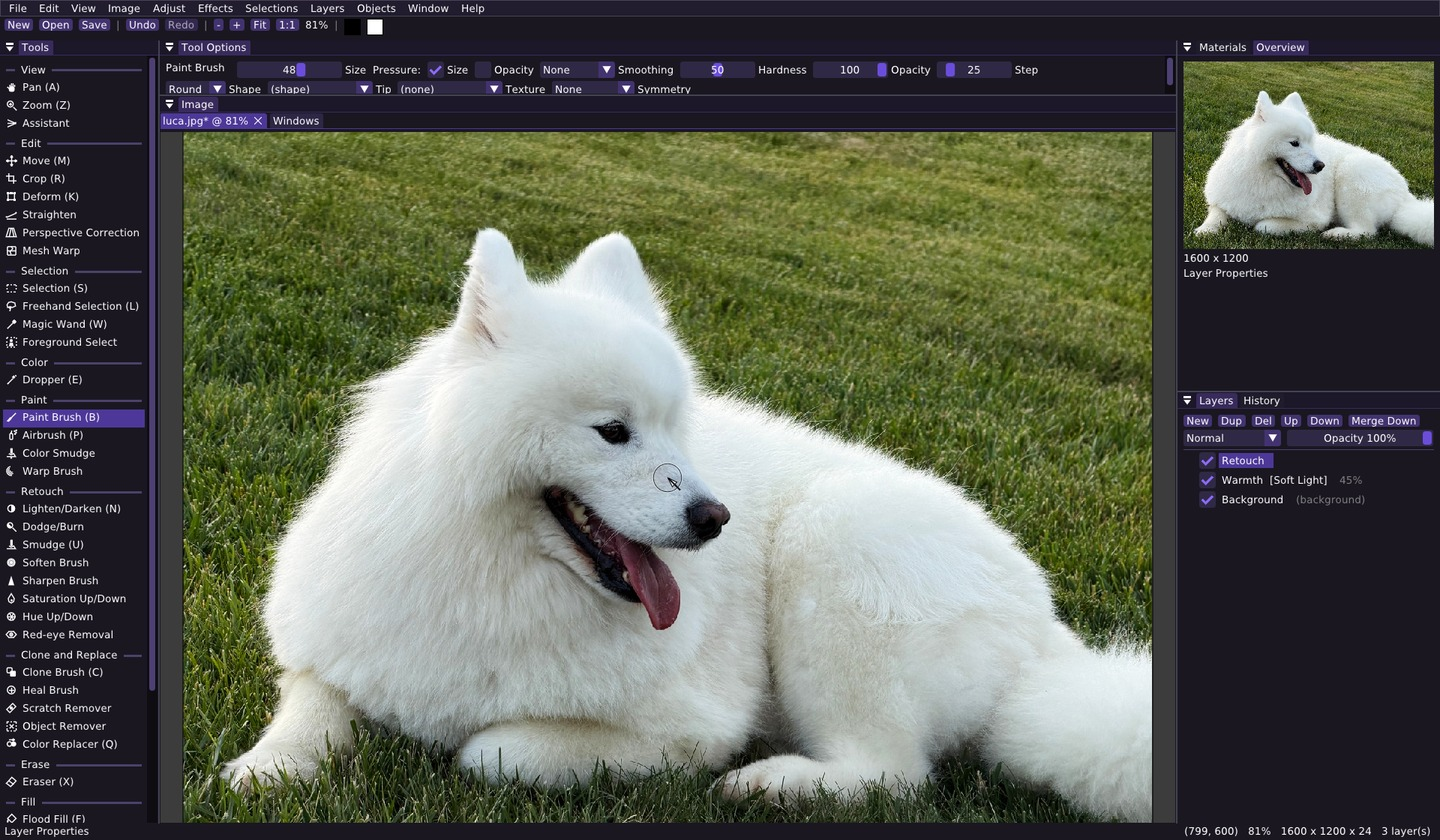
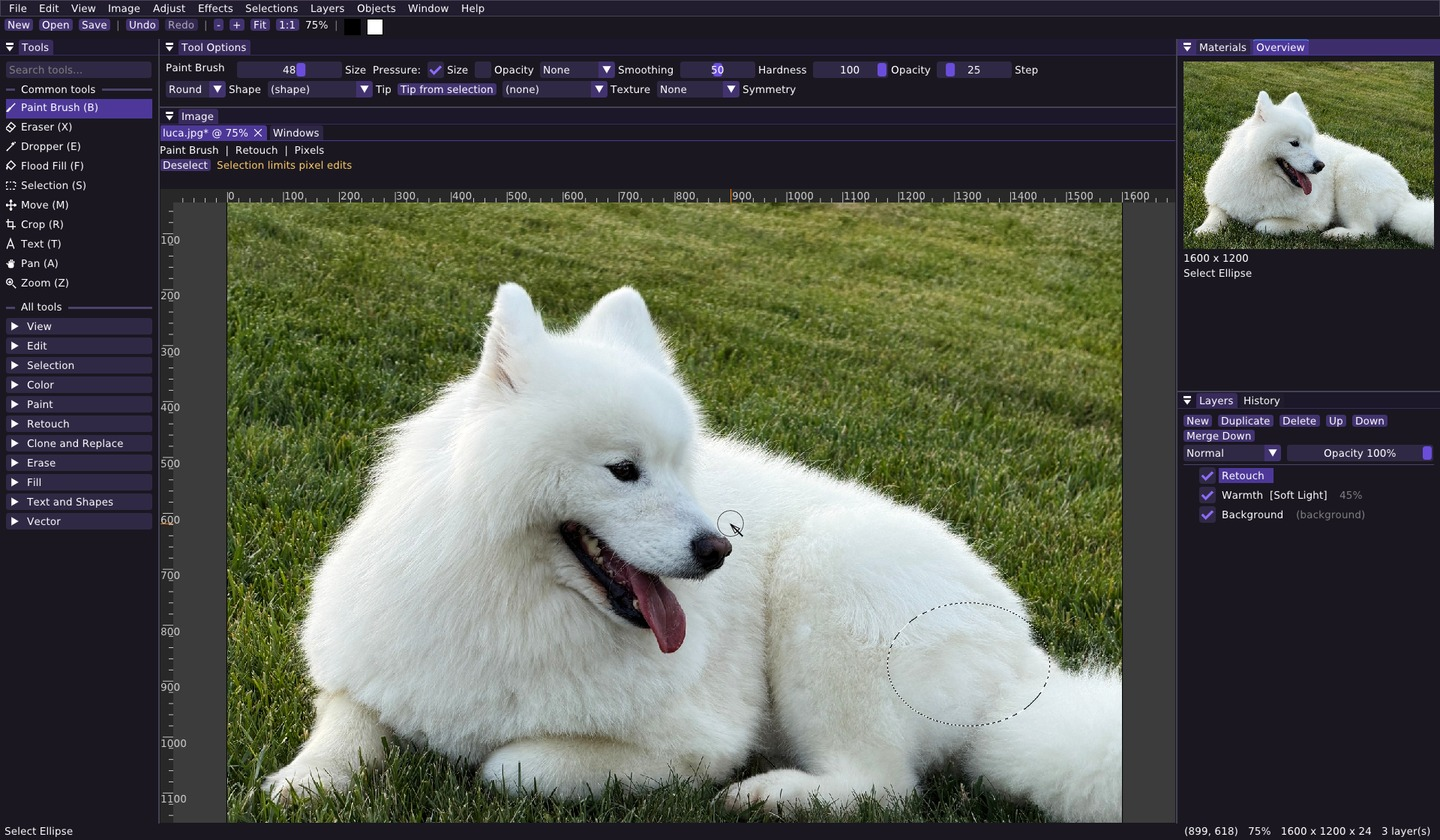
New screenshot, and say that the API draws and the project format is lossless
The tool palette became searchable with a common-tools section and
collapsible categories, and the canvas now says which layer and target a
tool will act on, so the old screenshot no longer looked like the program.

The automation section predated the drawing API, and the file formats
section described the project format as it was before the audit.

Claude-Session: https://claude.ai/code/session_01GDzoz3qbJoqQKcZ4Sn2PjE

diff --git a/README.md b/README.md
@@ -71,6 +71,12 @@ firn-cli do edit.content_aware_fill '{}'
 firn-cli do file.save_as '{"path":"out.png"}'
 ```
 
+It draws, too. `draw.rectangle`, `draw.ellipse`, `draw.polygon` and
+`draw.path` place shapes as editable vector objects or rasterize them,
+`draw.stroke` paints a brush stroke, and `app.batch` applies a whole list
+atomically as one undo step that rolls back if any part of it is refused.
+`samples/api-cat.json` draws a complete editable picture in one call.
+
 `firn-cli describe` prints the entire API as JSON Schema, which is enough for
 a language model to operate Firn without being taught anything else.
 [docs/API-reference.md](docs/API-reference.md) is the generated manual, and
@@ -80,10 +86,12 @@ the original program's `.PspScript` files.
 ## File formats
 
 Projects are saved as **OpenRaster** (`.ora`), the open layered format that
-GIMP, Krita and MyPaint also read. Layers, groups, masks, vector objects,
-adjustment and filter layers, layer styles, 16-bit layers, color profiles and
-saved selections all survive a round trip; Firn-only details ride in
-extension attributes other editors ignore.
+GIMP, Krita and MyPaint also read, and nothing is lost in the trip. Layers,
+groups, masks, vector objects, adjustment and filter layers, layer styles,
+16-bit layers, color profiles, saved selections and metadata all come back
+exactly as they were, down to the active layer and the live selection. A
+test walks every field of the document model to keep it that way. Firn-only
+details ride in extension attributes other editors ignore.
 
 Firn also reads and writes the original program's native container
 (`.PspImage`, and the `.PspTube` and `.PspFrame` files that share it) with its
